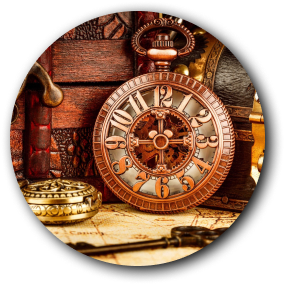
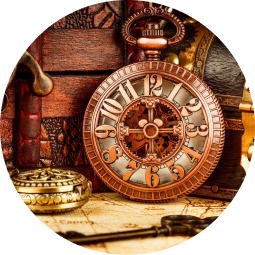
current changes in front

diff --git a/client/assets/sass/index.scss b/client/assets/sass/index.scss
@@ -292,7 +292,9 @@ a{
 		}
 	}
 	.content-wrapper{
-		background-image: url(~assets/images/png/puzzle-bg.png);
+		/*background-image: url(~assets/images/png/puzzle-bg.png);*/
+		/*background-color: $main-color-bg;*/
+		background: radial-gradient(at top, $main-color-bg, #A7CECC);
 		background-size: auto;
 		padding: 57px 0 150px 0;
 		.content-filters__wrapper{
@@ -367,6 +369,8 @@ a{
 						text-align: center;
 						position: relative;
 						.img-wrapper{
+							box-shadow: 10px 5px 5px #3c3a3a;
+    						border-radius: 50%;
 							max-width: 255px;
 							width: 100%;
 							margin: auto;
@@ -402,7 +406,13 @@ a{
 						justify-content: center;
 						position: relative;
 						.img-wrapper{
-							img{}
+							box-shadow: 10px 5px 5px #3c3a3a;
+    						border-radius: 76px;
+    						max-width: 288px;
+    						width: 100%;
+							img{
+								width: 100%;
+							}
 						}
 						.description-wrapper{							
 							height: 100%;

diff --git a/client/assets/sass/_variables.scss b/client/assets/sass/_variables.scss
@@ -16,11 +16,13 @@ $border-radius-sm: .15rem;
 $nav-pills-border-radius: 0;
 
 //color
+$main-color-bg: #eef0f1;
 $main-color: #363E4B;
 $main-fill-color: #04D0D9;
 $main-text-color: #FBF8EF;
 $col-text-second: #000000;
 $card-test-title: #FFFFFF;
+$main-box-shadow: 10px 5px 5px #3c3a3a;
 
 
 //border
@@ -36,6 +38,10 @@ $main-border: 1px solid rgba(154, 158, 165, 0.3);
 @mixin align-top {
   display: flex;
   align-items: flex-start;
+}
+
+@mixin round-shadow {
+	box-shadow: $main-box-shadow;
 }
 
 //width
